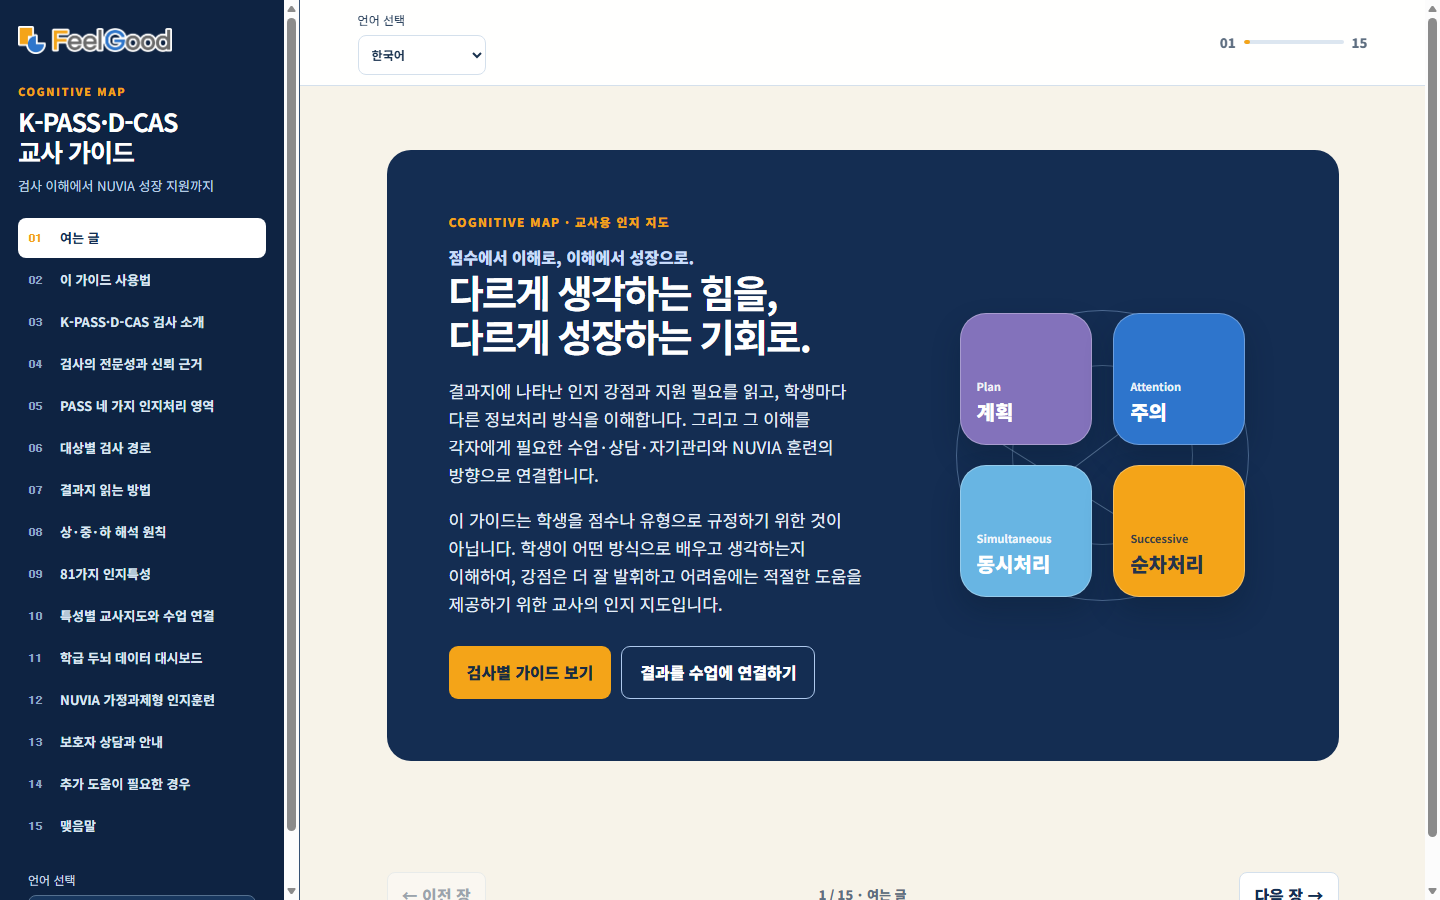
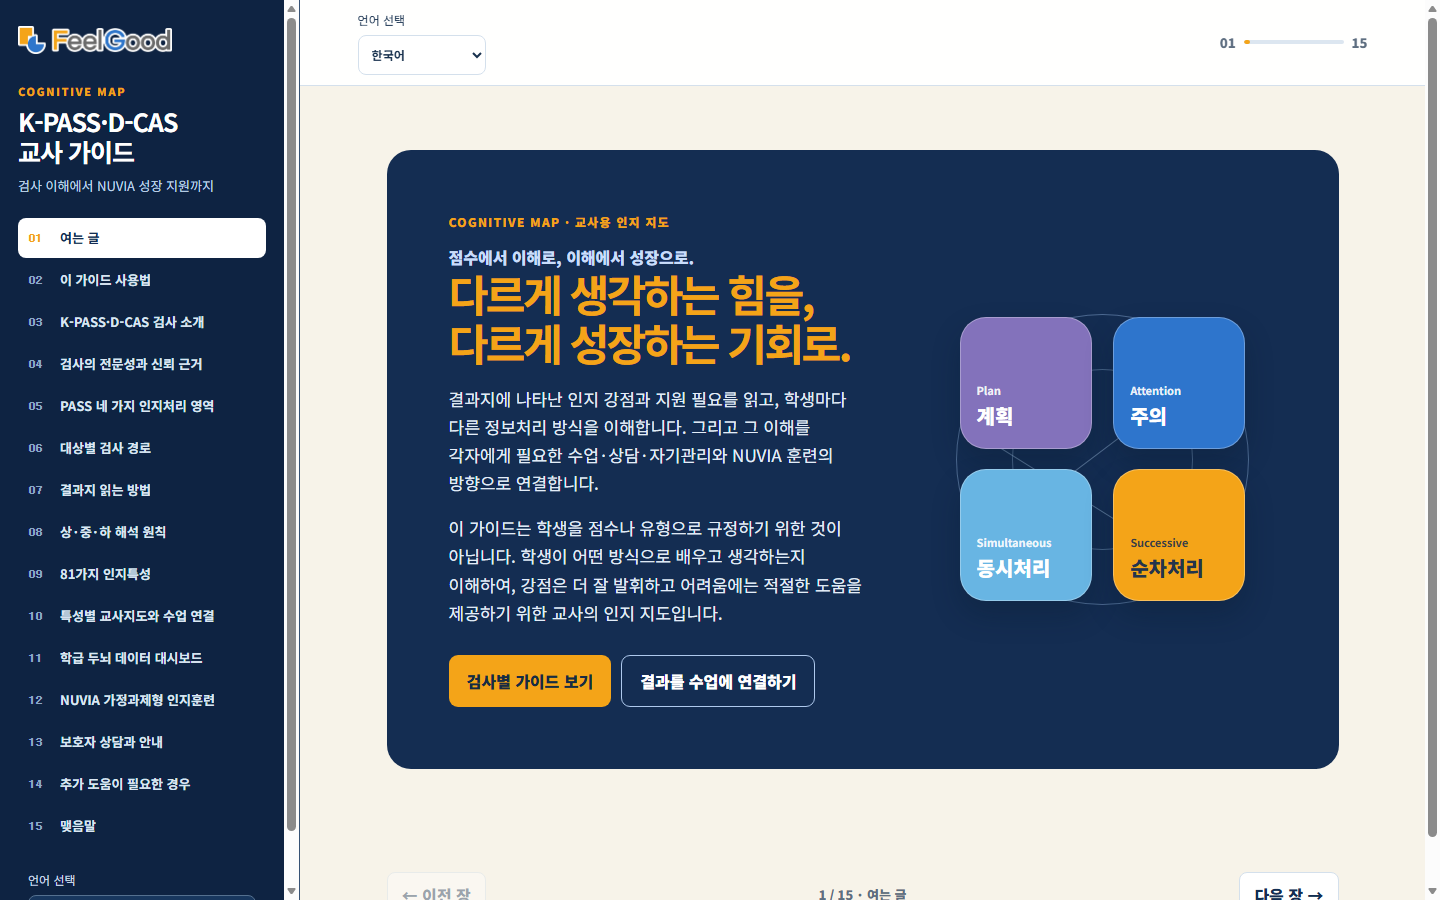
style: emphasize opening headline

diff --git a/teacher-guide/ebook.css b/teacher-guide/ebook.css
@@ -197,8 +197,10 @@ a:focus-visible, button:focus-visible, input:focus-visible, select:focus-visible
 }
 .opening-copy { position: relative; z-index: 2; min-width: 0; container-type: inline-size; }
 .chapter-opening .opening-title {
-  font-size: clamp(24px, 9cqi, 46px);
-  line-height: 1.16;
+  color: var(--orange);
+  font-size: clamp(27px, 10.2cqi, 52px);
+  line-height: 1.12;
+  letter-spacing: -.065em;
 }
 .opening-title span { display: block; white-space: nowrap; }
 .opening-copy > p:not(.eyebrow, .lead) {
